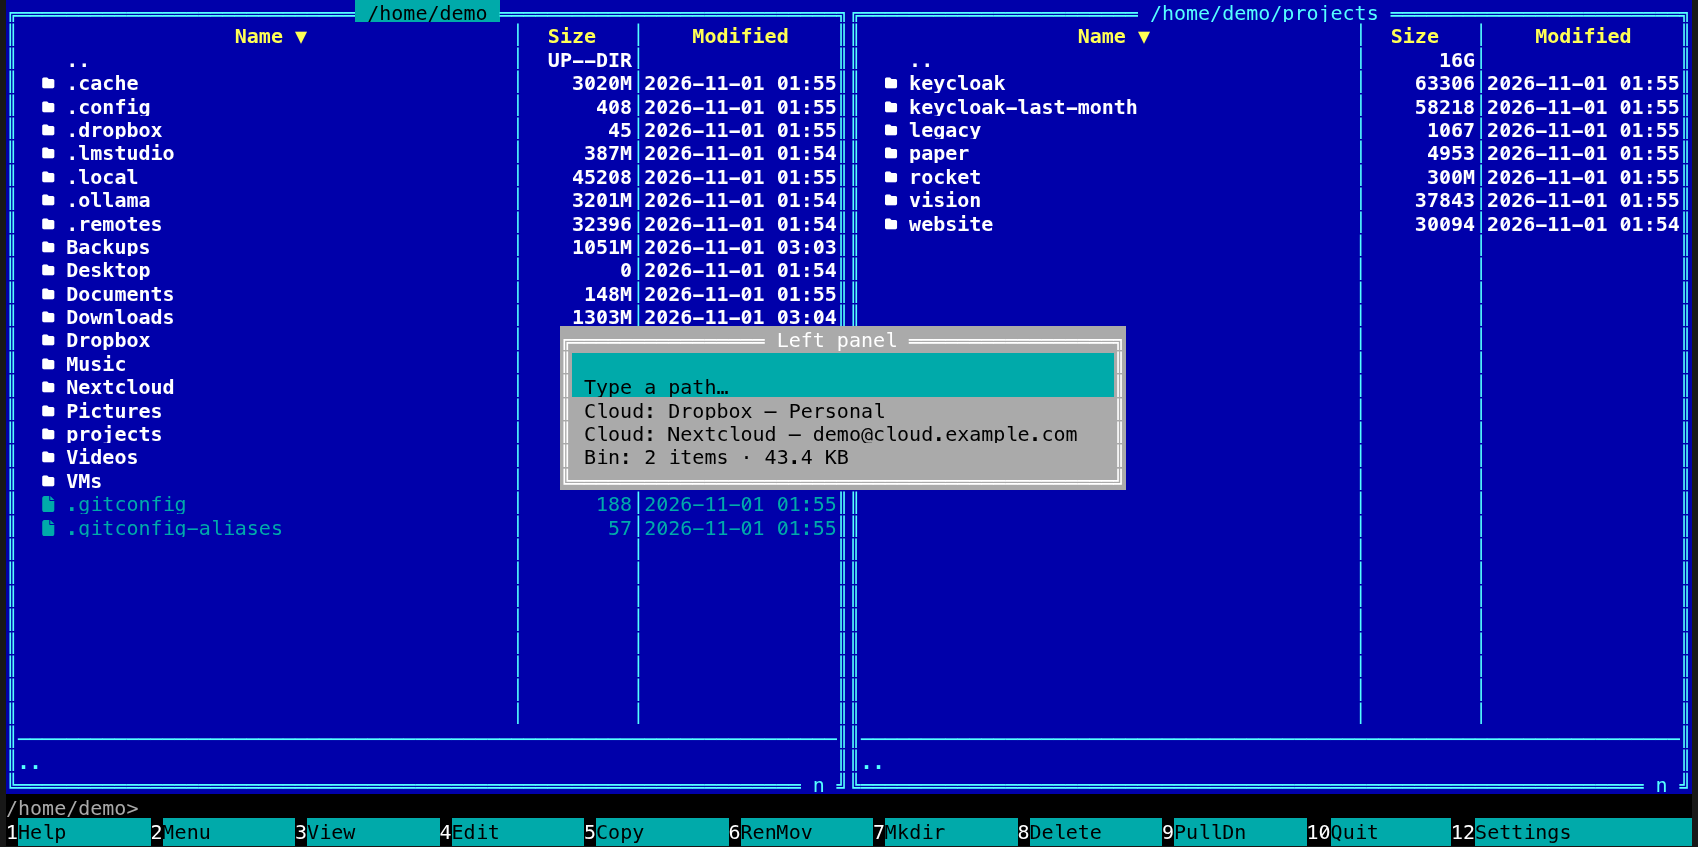
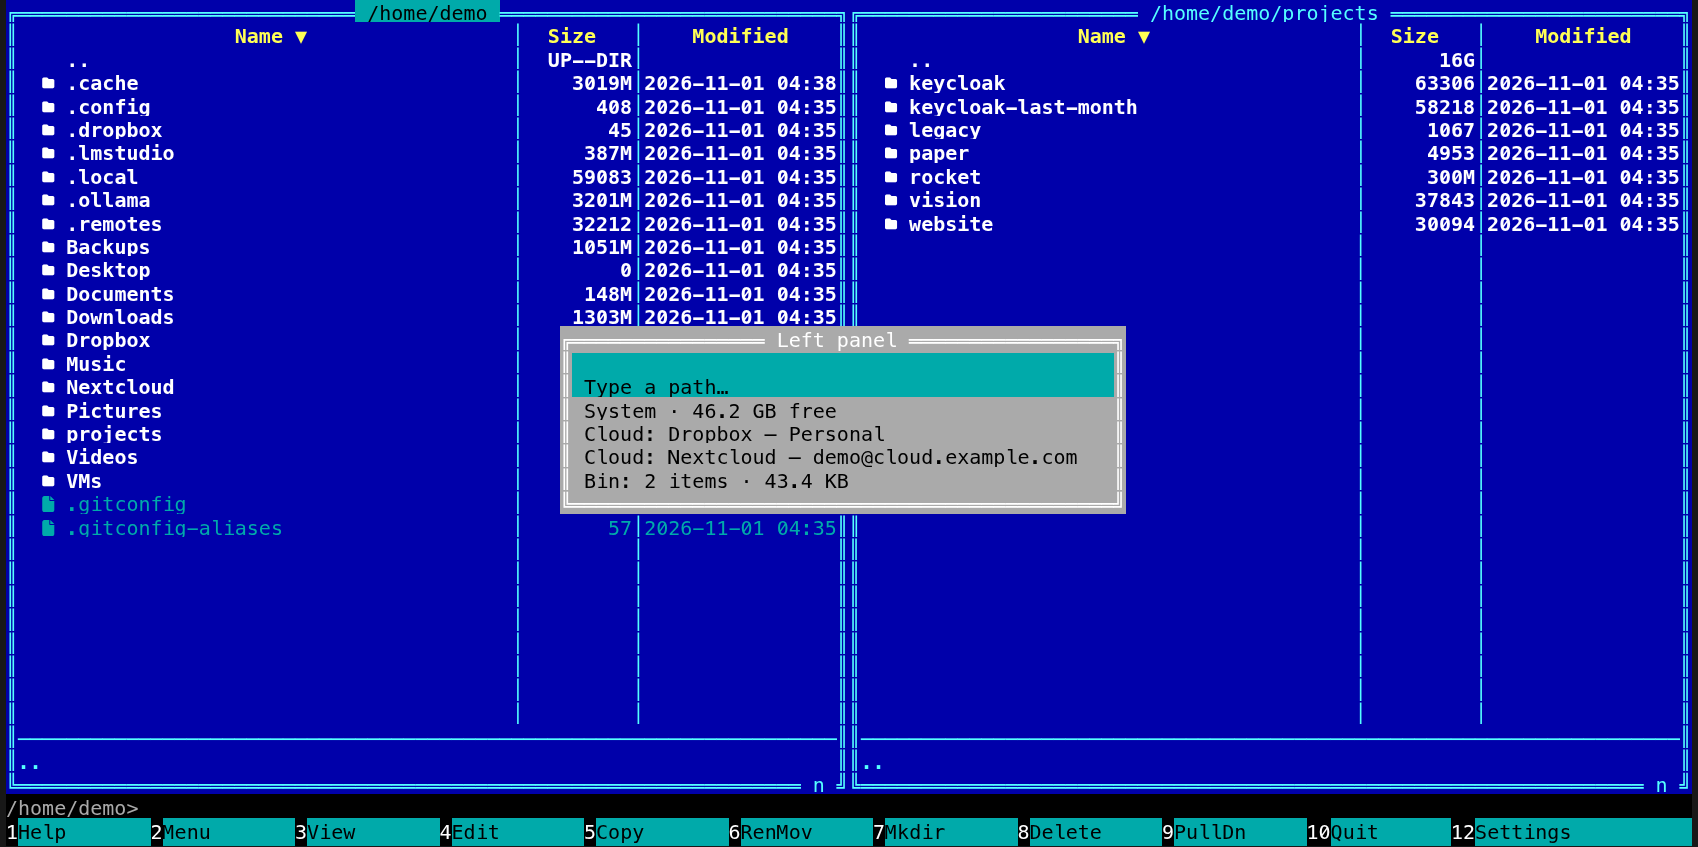
The terminal app's Alt+F1 and Alt+F2 list the drives, with their free space
The desktop sidebar's drive list (sysinfo on Linux, macOS and Windows, getmntinfo and mnttab on
the BSDs and illumos) moves into coxswain-core as machine::drives, so both apps share it. The
terminal app's go-to list shows each drive after Type a path…, as `C: Windows · 8.6 GB free` on
Windows and `System · 46.2 GB free` elsewhere; a look that hangs on a dead network mount leaves
the drives out after 300 ms.

Closes #765

Claude-Session: https://claude.ai/code/session_01No2cVNi1xnSzsVJBV4FW2T

diff --git a/crates/coxswain-core/src/machine.rs b/crates/coxswain-core/src/machine.rs
@@ -343,6 +343,124 @@ pub(crate) fn parse_mnttab(text: &str) -> Vec<Mounted> {
         .collect()
 }
 
+/// A drive to go to, as the desktop app's sidebar lists it under *Drives* and the terminal
+/// app's go-to list (Alt+F1, Alt+F2) after *Type a path…*: its name (`C: Windows`, `System`,
+/// `USB`), its mount point, size and free space in bytes.
+#[derive(Debug, Clone, PartialEq, Eq)]
+pub struct Drive {
+    pub label: String,
+    pub device: String,
+    pub mount: PathBuf,
+    pub total: u64,
+    pub free: u64,
+    pub removable: bool,
+    pub fstype: String,
+}
+
+/// The mounted drives, named, the system's own mounts left out.
+pub fn drives() -> Vec<Drive> {
+    named(mounted_drives(), cfg!(windows))
+}
+
+/// `drives`, or none when it takes longer than `wait`: a dead network mount can hang the look
+/// at its free space, and the terminal app's go-to list must not hang with it.
+pub fn drives_within(wait: Duration) -> Option<Vec<Drive>> {
+    static LOOKING: std::sync::atomic::AtomicBool = std::sync::atomic::AtomicBool::new(false);
+    crate::clouds::within(&LOOKING, wait, drives)
+}
+
+/// The mounted file systems as unlabelled drives: from sysinfo on Linux, macOS and Windows,
+/// which also says which are removable.
+#[cfg(any(target_os = "linux", target_os = "macos", windows))]
+fn mounted_drives() -> Vec<Drive> {
+    let list = sysinfo::Disks::new_with_refreshed_list();
+    list.list()
+        .iter()
+        .map(|d| Drive {
+            label: String::new(),
+            device: d.name().to_string_lossy().into_owned(),
+            mount: d.mount_point().to_path_buf(),
+            total: d.total_space(),
+            free: d.available_space(),
+            removable: d.is_removable(),
+            fstype: d.file_system().to_string_lossy().into_owned(),
+        })
+        .collect()
+}
+
+/// The mounted file systems as unlabelled drives: from `mounted` on the BSDs and illumos, which
+/// sysinfo does not know or, on FreeBSD, counts free inodes as free space.
+#[cfg(any(
+    target_os = "freebsd",
+    target_os = "netbsd",
+    target_os = "openbsd",
+    target_os = "illumos",
+    target_os = "solaris"
+))]
+fn mounted_drives() -> Vec<Drive> {
+    mounted()
+        .into_iter()
+        .map(|m| Drive {
+            label: String::new(),
+            device: m.device,
+            mount: m.mount,
+            total: m.total,
+            free: m.free,
+            removable: false,
+            fstype: m.fstype,
+        })
+        .collect()
+}
+
+/// None elsewhere (Android: Termux lists the phone's folders instead).
+#[cfg(not(any(
+    target_os = "linux",
+    target_os = "macos",
+    windows,
+    target_os = "freebsd",
+    target_os = "netbsd",
+    target_os = "openbsd",
+    target_os = "illumos",
+    target_os = "solaris"
+)))]
+fn mounted_drives() -> Vec<Drive> {
+    vec![]
+}
+
+/// `list` without empty and system mounts, each device once at its shortest mount point
+/// (subvolumes and bind mounts repeat it), and named: on Windows its letter and label.
+fn named(list: Vec<Drive>, windows: bool) -> Vec<Drive> {
+    let mut out: Vec<Drive> = vec![];
+    let mut sorted: Vec<Drive> = list.into_iter().filter(|d| d.total > 0).collect();
+    sorted.sort_by_key(|d| d.mount.as_os_str().len());
+    for mut d in sorted {
+        // On Windows `device` is the volume's label, which two drives may share (or both lack).
+        if hidden_mount(&d.mount, &d.fstype)
+            || (!windows && out.iter().any(|o| o.device == d.device))
+        {
+            continue;
+        }
+        d.label = if windows {
+            // Every drive is a root there: its letter and label, `C: Windows`, so that a long
+            // label cut short keeps the letter.
+            let letter = d.mount.to_string_lossy().trim_end_matches('\\').to_string();
+            if d.device.is_empty() {
+                letter
+            } else {
+                format!("{letter} {}", d.device)
+            }
+        } else if d.mount.parent().is_none() {
+            crate::t!("place.system")
+        } else {
+            d.mount
+                .file_name()
+                .map_or(d.device.clone(), |n| n.to_string_lossy().into_owned())
+        };
+        out.push(d);
+    }
+    out
+}
+
 /// The disk `path` is on, and where `path` is inside that disk's file system: its UUID (Linux,
 /// macOS) or volume serial (Windows), and the path from the file system's top. `None` when it
 /// cannot be told (tmpfs, network shares).
@@ -562,6 +680,51 @@ mod tests {
                 "/dev/sda2"
             )
         );
+    }
+
+    #[test]
+    fn drives_are_named_once_each_without_system_mounts() {
+        let d = |device: &str, mount: &str, total: u64| Drive {
+            label: String::new(),
+            device: device.into(),
+            mount: PathBuf::from(mount),
+            total,
+            free: 1,
+            removable: false,
+            fstype: "ext4".into(),
+        };
+        let unix = named(
+            vec![
+                d("/dev/sda2", "/home", 9),
+                d("/dev/sda2", "/", 9),
+                d("/dev/sda1", "/boot/efi", 9),
+                d("/dev/sdb1", "/run/media/me/USB", 9),
+                d("none", "/mnt/empty", 0),
+            ],
+            false,
+        );
+        let names: Vec<(&str, &Path)> = unix
+            .iter()
+            .map(|d| (d.label.as_str(), d.mount.as_path()))
+            .collect();
+        assert_eq!(
+            names,
+            [
+                (crate::t!("place.system").as_str(), Path::new("/")),
+                ("USB", Path::new("/run/media/me/USB"))
+            ]
+        );
+        // On Windows each drive is its letter and label, and two may share a label.
+        let win = named(
+            vec![
+                d("Windows", "C:\\", 9),
+                d("", "D:\\", 9),
+                d("Windows", "E:\\", 9),
+            ],
+            true,
+        );
+        let names: Vec<&str> = win.iter().map(|d| d.label.as_str()).collect();
+        assert_eq!(names, ["C: Windows", "D:", "E: Windows"]);
     }
 
     #[test]

diff --git a/gui/src-tauri/src/main.rs b/gui/src-tauri/src/main.rs
@@ -866,8 +866,6 @@ struct Disk {
     total: u64,
     free: u64,
     removable: bool,
-    #[serde(skip)]
-    fstype: String,
 }
 
 /// The mounted disks and their free space. The window asks again every so often, so the
@@ -877,44 +875,8 @@ async fn disks() -> Res<Vec<Disk>> {
     tauri::async_runtime::spawn_blocking(read_disks).await.map_err(|e| e.to_string())
 }
 
-/// The mounted file systems as unlabelled disks: from sysinfo on Linux, macOS and Windows, which
-/// also says which are removable.
-#[cfg(any(target_os = "linux", target_os = "macos", windows))]
-fn mounted_disks() -> Vec<Disk> {
-    let list = sysinfo::Disks::new_with_refreshed_list();
-    list.list().iter().map(|d| Disk { label: String::new(), device: d.name().to_string_lossy().into_owned(), mount: d.mount_point().to_path_buf(), total: d.total_space(), free: d.available_space(), removable: d.is_removable(), fstype: d.file_system().to_string_lossy().into_owned() }).collect()
-}
-
-/// The mounted file systems as unlabelled disks: from the core on the BSDs and illumos, which
-/// sysinfo does not know or, on FreeBSD, counts free inodes as free space.
-#[cfg(not(any(target_os = "linux", target_os = "macos", windows)))]
-fn mounted_disks() -> Vec<Disk> {
-    coxswain_core::machine::mounted().into_iter().map(|m| Disk { label: String::new(), device: m.device, mount: m.mount, total: m.total, free: m.free, removable: false, fstype: m.fstype }).collect()
-}
-
 fn read_disks() -> Vec<Disk> {
-    let mut out: Vec<Disk> = vec![];
-    // Subvolumes and bind mounts repeat the same device; keep its shortest mount point.
-    let mut sorted: Vec<Disk> = mounted_disks().into_iter().filter(|d| d.total > 0).collect();
-    sorted.sort_by_key(|d| d.mount.as_os_str().len());
-    for mut d in sorted {
-        // On Windows `device` is the volume's label, which two drives may share (or both lack).
-        if coxswain_core::machine::hidden_mount(&d.mount, &d.fstype) || (!cfg!(windows) && out.iter().any(|o| o.device == d.device)) {
-            continue;
-        }
-        d.label = if cfg!(windows) {
-            // Every drive is a root there: its letter and label, `C: Windows`, so that a long
-            // label cut short keeps the letter.
-            let letter = d.mount.to_string_lossy().trim_end_matches('\\').to_string();
-            if d.device.is_empty() { letter } else { format!("{letter} {}", d.device) }
-        } else if d.mount.parent().is_none() {
-            coxswain_core::t!("place.system")
-        } else {
-            d.mount.file_name().map_or(d.device.clone(), |n| n.to_string_lossy().into_owned())
-        };
-        out.push(d);
-    }
-    out
+    coxswain_core::machine::drives().into_iter().map(|d| Disk { label: d.label, device: d.device, mount: d.mount, total: d.total, free: d.free, removable: d.removable }).collect()
 }
 
 /// Before a history opens: the Subversion or CVS server it would be read from, when the user

diff --git a/crates/coxswain/src/lib.rs b/crates/coxswain/src/lib.rs
@@ -1684,9 +1684,9 @@ impl App {
             Action::GotoLeft | Action::GotoRight => {
                 let side = (a == Action::GotoRight) as usize;
                 let title = if side == 0 { t!("tui.left_panel") } else { t!("tui.right_panel") };
-                // The cloud accounts, on FreeBSD the boot environments and jails, in Termux the
-                // phone's folders: those to pick, as NC's drive list, under the line that types a
-                // path.
+                // The drives, the cloud accounts, on FreeBSD the boot environments and jails, in
+                // Termux the phone's folders: those to pick, as NC's drive list, under the line
+                // that types a path.
                 let places = coxswain_core::bsd::places();
                 let phone = coxswain_core::termux::storage();
                 // A hung cloud mount must not hang the app: the list comes without them.
@@ -1694,7 +1694,10 @@ impl App {
                     self.status = Some(t!("clouds.slow"));
                     vec![]
                 });
+                // The drives, as the desktop app's sidebar lists them: `C: Windows · 8.6 GB free`.
+                let drives = coxswain_core::machine::drives_within(Duration::from_millis(300)).unwrap_or_default();
                 let mut items = vec![MenuItem { key: String::new(), label: t!("bsd.type_path"), run: MenuRun::Goto(side, None), group: None }];
+                items.extend(drives.into_iter().map(|d| MenuItem { key: String::new(), label: format!("{} · {}", d.label, t!("sidebar.free", "size" => coxswain_core::settings::human(d.free))), run: MenuRun::Goto(side, Some(d.mount)), group: None }));
                 items.extend(phone.into_iter().map(|(name, path)| MenuItem { key: String::new(), label: t!("termux.storage", "name" => name), run: MenuRun::Goto(side, Some(path)), group: None }));
                 items.extend(clouds.into_iter().map(|c| MenuItem { key: String::new(), label: t!("clouds.goto", "name" => c.name), run: MenuRun::Goto(side, c.path), group: None }));
                 // The system's bin, with what it holds; on a Mac without Full Disk Access, Finder.

diff --git a/crates/coxswain-core/src/clouds.rs b/crates/coxswain-core/src/clouds.rs
@@ -16,7 +16,7 @@ pub fn places_within(wait: Duration) -> Option<Vec<Place>> {
     within(&LOOKING, wait, places)
 }
 
-fn within<T: Send + 'static>(
+pub(crate) fn within<T: Send + 'static>(
     busy: &'static AtomicBool,
     wait: Duration,
     look: fn() -> T,

diff --git a/docs/organise/clouds.md b/docs/organise/clouds.md
@@ -24,7 +24,7 @@ one anything and sends nothing anywhere.
 
 | To | Desktop app | Terminal app |
 |---|---|---|
-| See your clouds | The *Clouds* section of the [sidebar](sidebar.md) (**Ctrl+B** shows it) | **Alt+F1** (left panel) or **Alt+F2** (right panel): a list with *Type a path…* first, then *Cloud: OneDrive – Personal* and the others, then *Bin* |
+| See your clouds | The *Clouds* section of the [sidebar](sidebar.md) (**Ctrl+B** shows it) | **Alt+F1** (left panel) or **Alt+F2** (right panel): a list with *Type a path…* first, then the drives, then *Cloud: OneDrive – Personal* and the others, then *Bin* |
 | Go to one | Click it: the active tab of the active pane goes to its folder | Move to it and press **Enter**: that panel goes to its folder |
 | Fold the section away | Click *Clouds* | – |
 
@@ -53,7 +53,7 @@ sorted by name, in the language's alphabet ([Sorting](../panels/sorting.md)).
   entry for the folder the active tab is in is highlighted, as in the other sections. The list is
   read again with the drives, every 30 seconds while the window is in view, so a cloud you mount
   meanwhile shows up.
-- Terminal app: **Alt+F1** and **Alt+F2** open a list (the clouds, the [bin](../files/bin.md),
+- Terminal app: **Alt+F1** and **Alt+F2** open a list (the drives, the clouds, the [bin](../files/bin.md),
   a boot environment or jail on FreeBSD, the phone's folders in Termux). *Type a path…* at the
   top gives the *Go to folder* line. The list is read each time you
   open it. When the cloud folders do not answer within a moment (a mount whose server has gone),
@@ -67,11 +67,11 @@ keys are those of the sidebar (`toggle_sidebar`) and of going to a folder (`goto
 
 ## In the terminal app
 
-The terminal app has no sidebar: its clouds are under **Alt+F1** and **Alt+F2**, as NC's drive
-menu, with *Cloud:* before each name. Everything else is the same.
+The terminal app has no sidebar: its drives and clouds are under **Alt+F1** and **Alt+F2**, as NC's
+drive menu, with *Cloud:* before each cloud's name. Everything else is the same.
 
-![The terminal app in Classic blue with the Left panel list open over the panels: Type a path… highlighted at the top, then Cloud: Dropbox – Personal, Cloud: Nextcloud – demo@cloud.example.com and Bin: 2 items · 43.4 KB](../screenshots/tui-clouds.png)
-*Alt+F1 in the terminal app: the clouds under the line that types a path.*
+![The terminal app in Classic blue with the Left panel list open over the panels: Type a path… highlighted at the top, then System · 46.2 GB free, Cloud: Dropbox – Personal, Cloud: Nextcloud – demo@cloud.example.com and Bin: 2 items · 43.4 KB](../screenshots/tui-clouds.png)
+*Alt+F1 in the terminal app: the drives and clouds under the line that types a path.*
 
 ## Questions
 

diff --git a/docs/panels/moving.md b/docs/panels/moving.md
@@ -52,7 +52,7 @@ More on this: [Opening files](../commands/opening-files.md).
 
 | Key | Terminal app | Desktop app |
 |---|---|---|
-| **Alt+F1** | A list *Left panel*: *Type a path…* at the top, then Termux's phone folders, your [clouds](../organise/clouds.md), the [bin](../files/bin.md) and FreeBSD's boot environments and jails. **Enter** on *Type a path…* opens the dialog *Go to folder:*, filled in with the left panel's folder | The left pane's path bar turns into a text field with its path selected |
+| **Alt+F1** | A list *Left panel*: *Type a path…* at the top, then the drives, each with its free space (*System · 339 GB free*; on Windows *C: Windows · 8.6 GB free*, *D:*, a USB stick, a mapped network drive), Termux's phone folders, your [clouds](../organise/clouds.md), the [bin](../files/bin.md) and FreeBSD's boot environments and jails. **Enter** on *Type a path…* opens the dialog *Go to folder:*, filled in with the left panel's folder | The left pane's path bar turns into a text field with its path selected |
 | **Alt+F2** | A list *Right panel*, the same for the right panel | The same for the right pane |
 | **Ctrl+L** | – | The active pane's path bar turns into a text field |
 
@@ -112,6 +112,15 @@ program writes, copies in or deletes shows or goes within a second (see the ques
 reads its panels again after its own operations, after a command, and on **Ctrl+R**.
 
 ## Questions
+
+#### Where are my drives in the terminal app?
+
+Under **Alt+F1** (left panel) and **Alt+F2** (right panel), right after *Type a path…*: each
+drive with its name and free space, as the desktop app's sidebar lists them under *Drives*
+([Sidebar](../organise/sidebar.md)). On Windows that is the letter and label, *C: Windows · 8.6 GB
+free*; elsewhere *System* for `/`, the others named after their mount point. **Enter** opens the
+drive's top folder in that panel. A drive whose free space does not come back within a moment (a
+network share whose server has gone) leaves the drives out of the list that time.
 
 #### Why do Left and Right page instead of moving into folders?
 

diff --git a/docs/panels/keys.md b/docs/panels/keys.md
@@ -49,7 +49,7 @@ On a Mac the shortcuts are the same, with **Ctrl**, not Cmd.
 | **PageDown**, **Right** | Page down | `page_down` | A page down (columns view: **Right** opens the folder; thumbnails: one tile right) | A page down |
 | **Home** / **End** | First / Last | `home` / `end` | First / last entry | The same |
 | **Alt+Left** / **Alt+Right** | Back / Forward | `back` / `forward` | The tab's history | – |
-| **Alt+F1** / **Alt+F2** | Left: go to / Right: go to | `goto_left` / `goto_right` | Type a path in the left / right pane's path bar | A list *Left panel* / *Right panel*: *Type a path…* (the go-to dialog), then the clouds, the [bin](../files/bin.md), FreeBSD's boot environments and jails ([Moving around](moving.md#going-to-a-folder)) |
+| **Alt+F1** / **Alt+F2** | Left: go to / Right: go to | `goto_left` / `goto_right` | Type a path in the left / right pane's path bar | A list *Left panel* / *Right panel*: *Type a path…* (the go-to dialog), then the drives, the clouds, the [bin](../files/bin.md), FreeBSD's boot environments and jails ([Moving around](moving.md#going-to-a-folder)) |
 | **Ctrl+L** | Edit path | `edit_path` | Type a path in the active pane | – |
 
 ### Panels and tabs

diff --git a/docs/systems/termux.md b/docs/systems/termux.md
@@ -165,7 +165,7 @@ files takes long on a phone and warms it. A model server on another computer doe
 | Battery | `/sys/class/power_supply` | `termux-battery-status`, else `/sys/class/power_supply` |
 | Start with my session | A systemd user service | Not available; the helper stays ten minutes after the app |
 | Certificates for HTTPS | The system's store | Termux's own, `$PREFIX/etc/tls/cert.pem` (`pkg install ca-certificates`) |
-| The go-to list (Alt+F1) | Type a path, the bin | Type a path, the phone's folders, the bin |
+| The go-to list (Alt+F1) | Type a path, the drives, the bin | Type a path, the phone's folders, the bin |
 | F8 (Delete) | To the desktop's trash | To Coxswain's own trash in `~/.local/share/Trash`; on the phone's storage F8 asks to delete for good instead ([Deleting](#deleting-termuxs-trash)) |
 | Update hint | By where it is installed | `cargo install --locked coxswain` for a cargo build; `pkg upgrade coxswain` for one installed with `pkg`, once termux-packages' recipe has the version (while that cannot be read, GitHub answers and the notice adds that Termux's repository can have it a few days later) |
 

diff --git a/docs/organise/README.md b/docs/organise/README.md
@@ -6,7 +6,7 @@ Four ways to keep your bearings in the desktop app: colour tags on files, notes 
 named groups of favourite folders, and the sidebar that holds the favourites next to your
 places, drives, clouds, the bin and recent git repositories. None of them change your files. They live in
 Coxswain's own state file, `state.json` ([Where things are kept](../reference/where-things-are-kept.md)).
-The terminal app has none of them but the clouds, which it lists under **Alt+F1** and **Alt+F2**:
+The terminal app has none of them but the drives and clouds, which it lists under **Alt+F1** and **Alt+F2**:
 the others' keys there say which app has them.
 
 ![The desktop app with the sidebar at the left: Places with Home, Drives with System and its free space, Clouds with Dropbox – Personal and Nextcloud, the Bin with 2 items, a favourites group named WORK with rocket, website and Documents, and Git repositories with website pinned, then paper, rocket and vision. In the panels, a grey tag dot after src, a red one after TODO.txt, a yellow one after budget.xlsx and a red one after launch-report.pdf](../screenshots/gui-details.png)

diff --git a/docs/panels/README.md b/docs/panels/README.md
@@ -74,7 +74,7 @@ Show the hints again* (desktop app) or `coxswain --hints reset`.
 | `+` / `-` / `*` | Yes | Yes | Mark group / unmark group / invert marks |
 | **Ctrl+F3** … **Ctrl+F6** | Yes | Yes | Sort by name, extension, time, size |
 | **Alt+.** | Yes | Yes | Hidden files on or off |
-| **Alt+F1** / **Alt+F2** | Types a path in the left / right pane | A list *Left panel* / *Right panel*: *Type a path…*, the clouds, the [bin](../files/bin.md) … | Go to a folder |
+| **Alt+F1** / **Alt+F2** | Types a path in the left / right pane | A list *Left panel* / *Right panel*: *Type a path…*, the drives, the clouds, the [bin](../files/bin.md) … | Go to a folder |
 | **Ctrl+O** | One pane or two | Hides the panels and shows the last command's output; any key brings them back ([more](../commands/command-line.md#the-output-flashed-by-in-the-terminal-app-where-is-it)) | Panels |
 | **Ctrl+T**, **Ctrl+W**, **Ctrl+Tab** | Yes | – | New, close, next tab |
 | **Alt+Left** / **Alt+Right** | Yes | – | Back / forward |

diff --git a/docs/files/bin.md b/docs/files/bin.md
@@ -22,7 +22,7 @@ preview, **F3**, **F5** (copy out) and Find work on the files in it as on any ot
 | Where | Desktop app | Terminal app |
 |---|---|---|
 | The sidebar | The *Bin* row, under *Clouds* (and FreeBSD's *Jails*), above the favourites, with what is in it (*3 items · 1.2 MB*). A click opens it in the active tab; a right-click or its **⋯** offers *The bin* and, when it holds something, *Empty the bin* | No sidebar |
-| The go-to list | – | **Alt+F1** (left panel) or **Alt+F2** (right panel): *Bin: 3 items · 1.2 MB*, under *Type a path…* and the clouds |
+| The go-to list | – | **Alt+F1** (left panel) or **Alt+F2** (right panel): *Bin: 3 items · 1.2 MB*, under *Type a path…*, the drives and the clouds |
 | The command list | **F9** → *The bin* | **F9** → *The bin* |
 | A path | `~/@bin` in the path bar (**Ctrl+L**) | `cd ~/@bin` does not work (it is no folder); use the go-to list |
 

diff --git a/docs/organise/sidebar.md b/docs/organise/sidebar.md
@@ -103,7 +103,8 @@ No sidebar. **Ctrl+B** says *Sidebar is available in the desktop app (coxswain-g
 terminal app shows the git branch and status of a repository in the panel frame
 ([Git in the panels](../panels/git.md)), but it has no list of repositories to go to, pin or
 remove: that list is the desktop app's. Its Settings shows *Git repositories in the sidebar*
-too, for the desktop app. Your [clouds](clouds.md), the [bin](../files/bin.md) and FreeBSD's boot
+too, for the desktop app. Your drives (with their free space, as under *Drives*), your
+[clouds](clouds.md), the [bin](../files/bin.md) and FreeBSD's boot
 environments and jails are under **Alt+F1** and **Alt+F2** there
 ([FreeBSD](../systems/freebsd.md#boot-environments-and-jails)).
 
